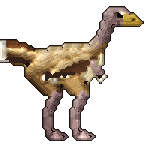
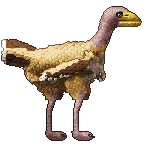
Ornithomimus painted in HD, with a beak helper (Painter.Beak)
Cream body feathers, a downy bare pink neck and head, a glossy yellow
beak (ridge gloss, grain, the line of the mouth, nostril), the folded
wing's dark feathers ending in the drawing's white, slender pink scaly
shanks. The tail turns with the rump down to the legs.

Changed region(s): [[0.0, 0.0278, 0.9231, 1.0]]

diff --git a/internal/dinopaint/ornitho.go b/internal/dinopaint/ornitho.go
@@ -1,0 +1,136 @@
+package dinopaint
+
+// Ornithomimus: dinos/ornitho.png, 52 x 48, facing right: the ostrich
+// mimic, a cream body on long pink legs, a bare pink neck and head, a
+// yellow beak, a dark tail band with a white tip and a dark folded wing
+// whose feathers end in white. Its rig is "ornitho" in
+// internal/client/dinorigs.go: hips (27, 26) and (18, 26), knees (28.5,
+// 32.5) and (19.5, 32.5), ankles (25, 37.5) and (16, 37.5); the legs are cut
+// from row 31, columns 23-32 (near) and 14-22 (far); the neck bends about
+// (31, 18) and the head about (35.2, 3.6); the beak opens about (41, 7)
+// along the line to (46.5, 7.2); the tail turns about (13, 19).
+
+func init() { Register(ornitho()) }
+
+var (
+	ornithoBeak = []uint32{0x3a2808, 0x58400e, 0x785a16, 0x987420, 0xb88e2a, 0xd2a836, 0xe6c250, 0xf4dc7c}
+	darkIris    = []uint32{0x120c0a, 0x22160e, 0x3a2414, 0x56361c, 0x744a26, 0x946232}
+)
+
+func ornitho() *Species {
+	farLeg := Union(
+		Cone(17.4, 26.6, 3.8, 19.3, 31.8, 2.4),
+		Cone(19.3, 32.3, 1.9, 16.2, 37.5, 1.2),
+		Cone(16.2, 37.5, 1.1, 16.6, 44.3, 0.95),
+		Cone(16.6, 44.8, 0.95, 21.6, 45.4, 0.6),
+	)
+	nearLeg := Union(
+		Cone(26.4, 26.6, 4, 28.3, 31.8, 2.5),
+		Cone(28.3, 32.3, 2.0, 25.2, 37.5, 1.2),
+		Cone(25.2, 37.5, 1.1, 25.6, 44.3, 0.95),
+		Cone(25.6, 44.8, 0.95, 30.6, 45.4, 0.6),
+	)
+	body := Blend(2.5,
+		Path([3]float64{12, 19, 4}, [3]float64{5, 17.2, 3.4}, [3]float64{0.5, 17, 3.5}), // the tail
+		Ellipse(20.5, 20.8, 12, 5.6, 0.04),
+		Cone(29.5, 19, 3.4, 33.2, 12, 2.1), // the neck
+		Cone(33.2, 12, 2.0, 35.6, 6, 1.9),
+		Poly(34.6, 3.4, 36, 2.4, 41.5, 2.4, 43, 4, 46.5, 4.5, 47.7, 6.5, 47, 7.5, 40, 7.6, 36.5, 8.6, 34.4, 7), // the head
+	)
+	jaw := Poly(39.5, 7, 47.4, 7.1, 46.6, 8.0, 40.5, 8.2, 39, 7.9)
+	wing := Union( // the arm, and the long feathers of the folded wing behind it
+		Cone(30.2, 18.6, 1.9, 31.8, 22.6, 1.4),
+		Cone(31.8, 22.8, 1.2, 33.2, 24.8, 0.8),
+		Poly(31.4, 19.5, 32.2, 22.6, 25.5, 25, 13.6, 26.8, 14.2, 24, 21, 21.2, 27, 19.6),
+	)
+	beak := Poly(39.8, 4.2, 43, 4.0, 46.5, 4.5, 47.9, 6.6, 47.1, 8.1, 40.5, 8.3, 39.5, 6.6)
+	return &Species{
+		Name:        "ornitho",
+		GuideDetail: 0.3,
+		Ink:         30,
+		Materials: []Material{
+			{Name: "cream", Seeds: []uint32{0xf4dcae, 0xe0c088, 0xc49c60, 0x9f7844, 0x74532f, 0x4a3320},
+				Ramp: []uint32{0x3a2616, 0x58391e, 0x7a5428, 0x9c7436, 0xbc9450, 0xd4b06a, 0xe6c88a, 0xf4e0b0}},
+			{Name: "pink", Seeds: []uint32{0xd2b4b0, 0xb08e8e, 0x86686a, 0x5a4444, 0x6a4a3a},
+				Ramp: []uint32{0x2a1a1c, 0x40282a, 0x583a3a, 0x725050, 0x8e6866, 0xa8807c, 0xc29c96, 0xd8bab2}},
+			{Name: "brown", Seeds: []uint32{0x55331f, 0x33211a, 0x7a4a26},
+				Ramp: []uint32{0x1a100c, 0x261810, 0x342014, 0x44291a, 0x553420, 0x684028, 0x7c4e30, 0x905c38}, Bias: 0.04},
+			{Name: "white", Seeds: []uint32{0xf6f2e6, 0xd8d0c0, 0xe0d4bc, 0xffffff},
+				Ramp: []uint32{0x5a5048, 0x7a7064, 0x9c9282, 0xbcb4a0, 0xd6cebc, 0xe8e2d2, 0xf4f0e4, 0xfffcf4}, Bias: 0.1},
+			{Name: "pale", Seeds: []uint32{0xc8b894, 0x9a8a6c},
+				Ramp: []uint32{0x30261c, 0x483a2c, 0x62503e, 0x7e6a52, 0x9a8468, 0xb49e80, 0xcab698, 0xdccab0}},
+			{Name: "beak", Seeds: []uint32{0xdcb648, 0xa8842e, 0xf2d878, 0x5a4418}, Ramp: ornithoBeak, Relief: 0.3, Region: beak},
+		},
+		// The shanks as slender as the drawing's, whose outline is half their
+		// width: the painted outline is lighter.
+		Remove: []SDF{
+			Cut(Poly(13, 33.5, 23, 33.5, 23, 37.8, 13, 37.8), Cone(17.4, 33.5, 1.25, 16.2, 37.5, 1.05)),
+			Cut(Poly(13, 37.2, 23, 37.2, 23, 43.6, 13, 43.6), Cone(16.2, 37.5, 1.05, 16.5, 44, 0.95)),
+			Cut(Poly(22, 33.5, 32, 33.5, 32, 37.8, 22, 37.8), Cone(26.4, 33.5, 1.3, 25.2, 37.5, 1.05)),
+			Cut(Poly(22, 37.2, 32, 37.2, 32, 43.6, 22, 43.6), Cone(25.2, 37.5, 1.05, 25.5, 44, 0.95)),
+		},
+		Recolor: []Recolor{
+			{Region: Circle(39.8, 4.8, 1.4), From: []string{"white", "brown"}, To: "pink"}, // the eye is painted again
+			{Region: Poly(33, 24, 36, 24, 36, 27, 33, 27), From: []string{"white"}, To: "pale"},
+		},
+		Parts: []Part{
+			{Name: "farLeg", Shape: farLeg, Far: true, Round: 2.4, Scale: 0.6, Muscles: []Muscle{
+				Mu(17.6, 27.5, 3, 3, 0, 0.9),
+			}},
+			{Name: "body", Shape: body, Round: 7, RoundAt: func(x, y float64) float64 {
+				return lerp(lerp(7, 2.2, smoothstep(27, 31, x)), 3, smoothstep(9, 3, y))
+			}, Muscles: []Muscle{
+				Mu(20, 20, 8, 4, 0, 0.8),          // the ribs
+				Mu(27.5, 19.5, 3, 3.5, 0.3, 0.6),  // the shoulder
+				Mu(11.5, 18.4, 4, 2.4, 0, 0.6),    // the root of the tail
+				Mu(37, 5, 2.2, 1.6, 0, 0.5),       // the back of the head
+				Mu(39.6, 3.6, 1.4, 0.6, 0, 0.5),   // the brow
+				Mu(43.5, 5.2, 3, 0.9, -0.05, 0.4), // the beak
+			}},
+			{Name: "jaw", Shape: jaw, Round: 0.8, Soft: 0.4, Scale: 0.5},
+			{Name: "nearLeg", Shape: nearLeg, Round: 2.6, Scale: 0.6, Onto: "body", Seam: Below(10, 26, 34, 25), Muscles: []Muscle{
+				Mu(26.4, 27.5, 3.2, 3.2, 0, 1.0),
+			}},
+			{Name: "wing", Shape: wing, Round: 1.8, Soft: 0.6, Muscles: []Muscle{
+				Mu(30.4, 19.6, 1.4, 2.2, 0.35, 0.7),
+				Mu(32, 23, 1.2, 1, 0.4, 0.4),
+			}},
+		},
+		Skin:    Skin{Flank: 1.1, Back: 1.3, Belly: 1.0, BackDepth: 2, BellyDepth: 2, Relief: 0.9, Seed: 43},
+		Folds:   []Fold{{Pts: []float64{15.2, 40, 16.8, 40}, N: 4, DY: 1.1, Depth: 0.5}, {Pts: []float64{24.2, 40, 25.8, 40}, N: 4, DY: 1.1, Depth: 0.5}},
+		Details: ornithoDetails,
+	}
+}
+
+func ornithoPlumage() *Plumage {
+	return &Plumage{Seed: 13, Edge: 0.4, Tracts: []Tract{
+		{Name: "farThigh", Region: Poly(11, 23, 23, 23, 23, 31.4, 11, 31.4), Parts: []string{"farLeg"},
+			Flow: Along(18, 26, 19.5, 32.5, 16, 37.5), Len: 2.2, Wid: 1.6, Fluff: 0.45, Snap: true},
+		{Name: "body", Region: Poly(8, 12, 31.5, 12.5, 33.5, 17, 31, 25, 10, 27, 7, 20), Parts: []string{"body", "wing"},
+			Flow: Along(31.5, 15.5, 26, 15.2, 18, 15.6, 10, 16.6), Len: 2.5, Wid: 1.75, Rows: 0.45, Jitter: 0.2, Fluff: 0.55, Snap: true},
+		// Fine down on the neck: the drawing's bare pink, lightly furred.
+		{Name: "neck", Region: Poly(29.5, 7, 37, 2.5, 38, 8.6, 34.6, 15, 33.6, 20, 28.5, 19.5), Parts: []string{"body"},
+			Flow: Along(36, 3.4, 34.2, 9.5, 32, 15, 29.6, 19.5), Len: 1.1, Wid: 0.62, Hair: true, Relief: 0.55, Fluff: 0.25, Snap: true},
+		{Name: "tail", Region: Poly(-1, 12, 11, 13, 12.5, 17, 11, 23, -1, 23), Parts: []string{"body"},
+			Flow: Fan(16, 17.5, 8, 3.1416), Len: 3.8, Wid: 1.5, Rows: 0.36, Tip: 0.5, Shaft: 0.12, Fluff: 0.7, Grow: 0.02},
+		{Name: "nearThigh", Region: Poly(20, 23, 33, 23, 33, 31.4, 20, 31.4), Parts: []string{"nearLeg"},
+			Flow: Along(27, 26, 28.5, 32.5, 25, 37.5), Len: 2.2, Wid: 1.6, Fluff: 0.45, Snap: true},
+		{Name: "wing", Region: Poly(30.4, 19, 31.4, 22.6, 25, 25.2, 13.4, 27.2, 14, 24, 21, 21.2, 27, 19.4), Parts: []string{"wing"},
+			Flow: Along(31, 20.6, 26, 22.2, 20, 24.2, 14, 25.6), Len: 4.6, Wid: 1.4, Rows: 0.34, Tip: 0.55, Shaft: 0.1, Fluff: 0.35,
+			TipMat: "white", TipLen: 0.25, TipGuide: true},
+		{Name: "arm", Region: Poly(28.8, 17.2, 33.4, 19.4, 34.2, 25, 31.6, 25.2, 29.4, 21), Parts: []string{"wing"},
+			Flow: Along(29.6, 17.6, 31.4, 21.4, 33, 24.8), Len: 2.0, Wid: 1.4, Fluff: 0.3, Snap: true},
+	}}
+}
+
+func ornithoDetails(p *Painter) {
+	p.Plumage(ornithoPlumage())
+	p.Beak(BeakSpec{Mat: "beak", Ridge: []float64{39.6, 4.3, 43, 4.1, 46.4, 4.6, 47.8, 6.4},
+		Mouth: []float64{39.8, 7.0, 43.5, 7.05, 47.2, 7.1}, Gloss: 0.24, Nostril: [2]float64{42.2, 5.2}, NoseR: 0.5, GrainSeed: 3})
+	p.Eye(EyeSpec{X: 39.8, Y: 4.85, R: 0.82, Iris: darkIris, Lid: 0.18, Squint: 1.1})
+	// The hand's claws and the feet's.
+	p.Claw(33.4, 24.6, 34.2, 26.4, 0.7, 0.3, sickleHorn[:6])
+	p.Claw(32.4, 24.8, 32.9, 26.5, 0.65, 0.25, sickleHorn[:5])
+	p.Claw(20.8, 45.0, 22.4, 45.7, 0.6, 0.15, sickleHorn[:5])
+	p.Claw(29.8, 45.0, 31.6, 45.7, 0.65, 0.15, sickleHorn[:6])
+}

diff --git a/internal/dinopaint/beak.go b/internal/dinopaint/beak.go
@@ -1,0 +1,86 @@
+package dinopaint
+
+import "math"
+
+// BeakSpec is a horny beak: the line of its ridge (the culmen) and the
+// line of its mouth, each from the base of the beak to its tip, in guide
+// pixels. The beak is the pixels of material Mat; Gloss is how bright the
+// light along the ridge is.
+type BeakSpec struct {
+	Mat         string
+	Ridge       []float64
+	Mouth       []float64
+	Gloss       float64 // 0: 0.22
+	Nostril     [2]float64
+	NoseR       float64 // the nostril's length (0: none)
+	TipDark     float64 // how much darker the tip is (0: 0.12)
+	GrainSeed   uint32
+	LowerShadow float64 // how much darker the lower beak is (0: 0.08)
+}
+
+// Beak paints keratin over the lit beak: a gloss along the ridge, fine
+// grain running to the tip, the mouth's line dark with the lower beak's
+// lit edge under it, a darker tip, and the nostril.
+func (p *Painter) Beak(b BeakSpec) {
+	m := p.MatID(b.Mat)
+	gloss := b.Gloss
+	if gloss == 0 {
+		gloss = 0.22
+	}
+	tipDark := b.TipDark
+	if tipDark == 0 {
+		tipDark = 0.12
+	}
+	lower := b.LowerShadow
+	if lower == 0 {
+		lower = 0.08
+	}
+	ridge, mouth := newCurve(b.Ridge), newCurve(b.Mouth)
+	total := ridge.run[len(ridge.run)-1]
+	for py := 0; py < p.H; py++ {
+		for px := 0; px < p.W; px++ {
+			i := py*p.W + px
+			if !p.In[i] || p.Mat[i] != m || p.Pro[i] {
+				continue
+			}
+			edge := false
+			for _, d := range [4][2]int{{1, 0}, {-1, 0}, {0, 1}, {0, -1}} {
+				if !p.Inside(px+d[0], py+d[1]) {
+					edge = true
+				}
+			}
+			x, y := G(px, py)
+			s, dr := ridge.at(x, y) // dr: + below the ridge, for a beak pointing right
+			u := clamp01(s / total)
+			_, dm := mouth.at(x, y) // + below the mouth line
+			if ridge.x[len(ridge.x)-1] < ridge.x[0] {
+				dr, dm = -dr, -dm // a beak pointing left
+			}
+			v := p.Val[i]
+			// The gloss: a streak of light just under the ridge, fading to the tip.
+			if dr > 0.15 && dr < 0.75 && dm < -0.3 {
+				v += gloss * (1 - 0.6*u) * (1 - math.Abs(dr-0.45)/0.3)
+			}
+			// The grain of the horn, running along it.
+			v += 0.05 * (fbm(u*14, dr*2.2, b.GrainSeed+3, 2) - 0.5)
+			v -= tipDark * smoothstep(0.78, 1, u)
+			switch {
+			case math.Abs(dm) < 0.2:
+				v -= 0.35 // the line of the mouth
+			case dm > 0 && dm < 0.55:
+				v += 0.08 // the lower beak's lit edge
+			case dm > 0:
+				v -= lower
+			}
+			if edge {
+				continue // the outline stays
+			}
+			p.Val[i] = v
+			p.Out[i] = p.Tone(m, v)
+			p.Pro[i] = true
+		}
+	}
+	if b.NoseR > 0 {
+		p.Nostril(b.Nostril[0], b.Nostril[1], b.NoseR, b.NoseR*0.45, -0.15)
+	}
+}

diff --git a/internal/client/dinorigs.go b/internal/client/dinorigs.go
@@ -133,7 +133,7 @@ var dinoRigs = map[string]dinoRig{
 		neck: rigPart{pivot: rigPt{31, 18}, dir: headUp(0.9), maxY: 20},
 		jaw:  [2]rigPt{{41, 7}, {46.5, 7.2}},
 		far:  0b10,
-		tail: rigPart{pivot: rigPt{13, 19}, dir: math.Pi, maxY: 25},
+		tail: rigPart{pivot: rigPt{13, 19}, dir: math.Pi, maxY: 30}, // the rump down to the legs
 	},
 	"thesc": {
 		file: "thesc", stride: 2.5,
